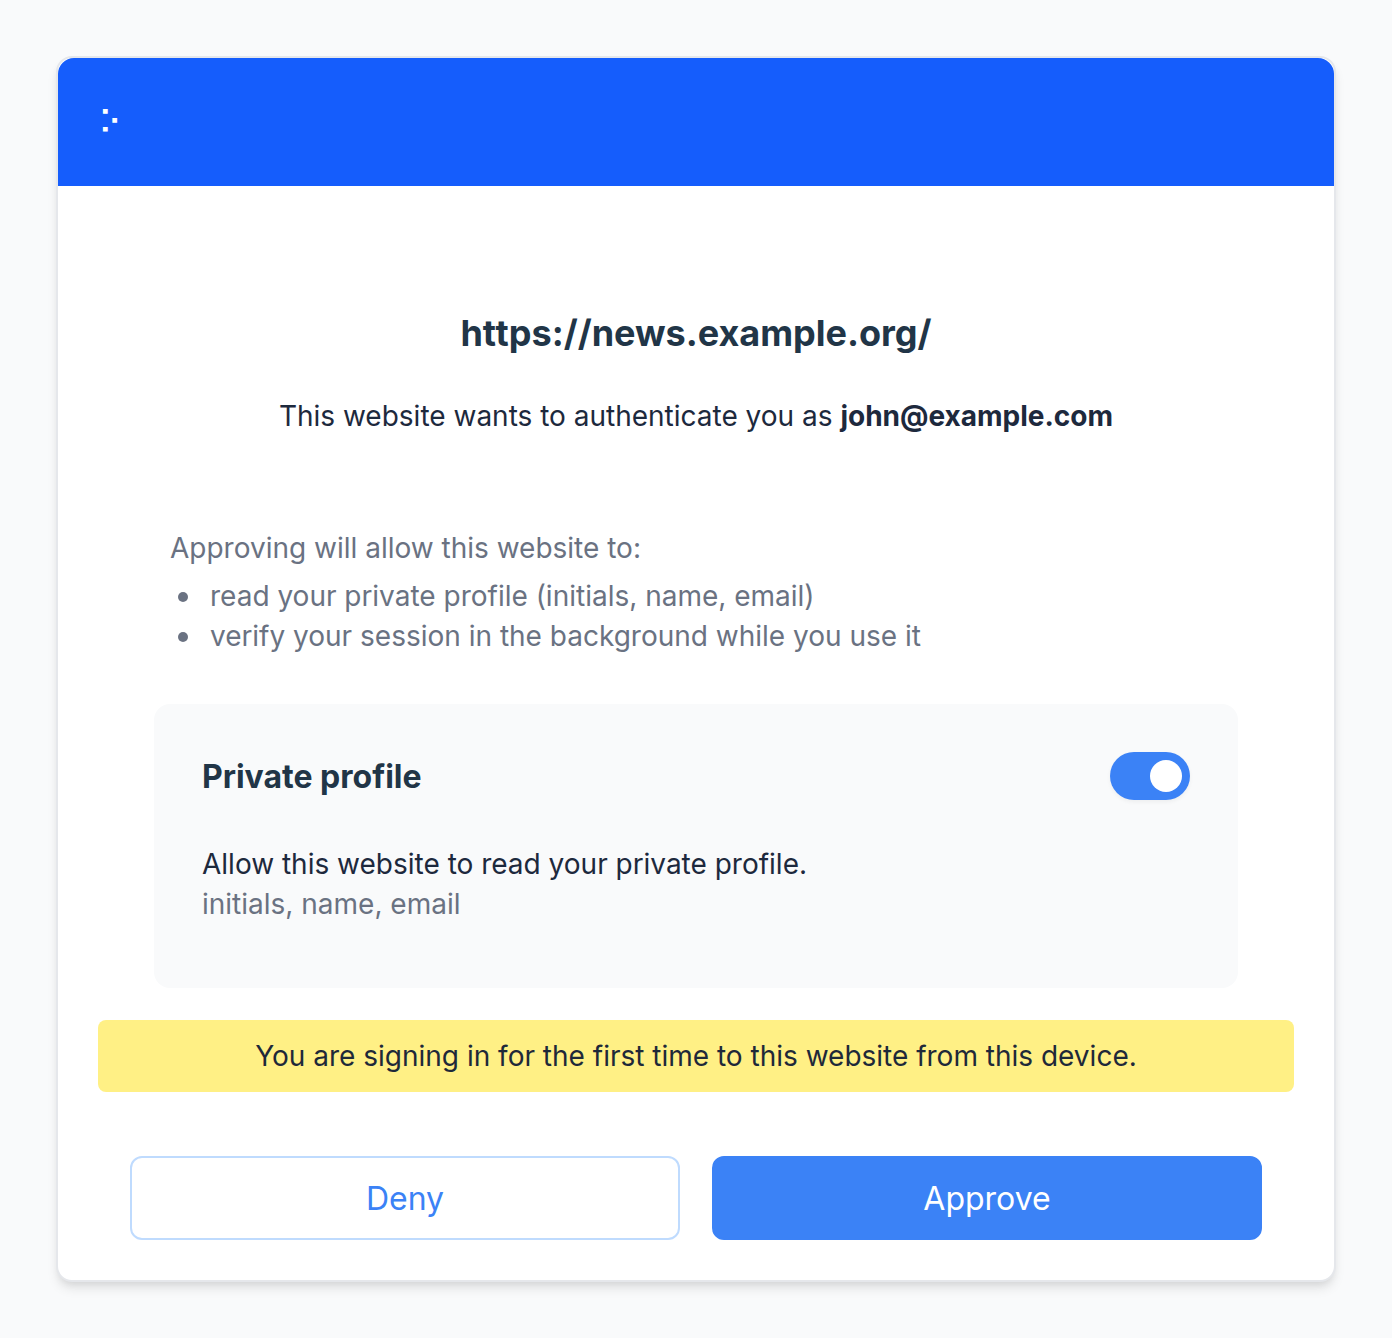
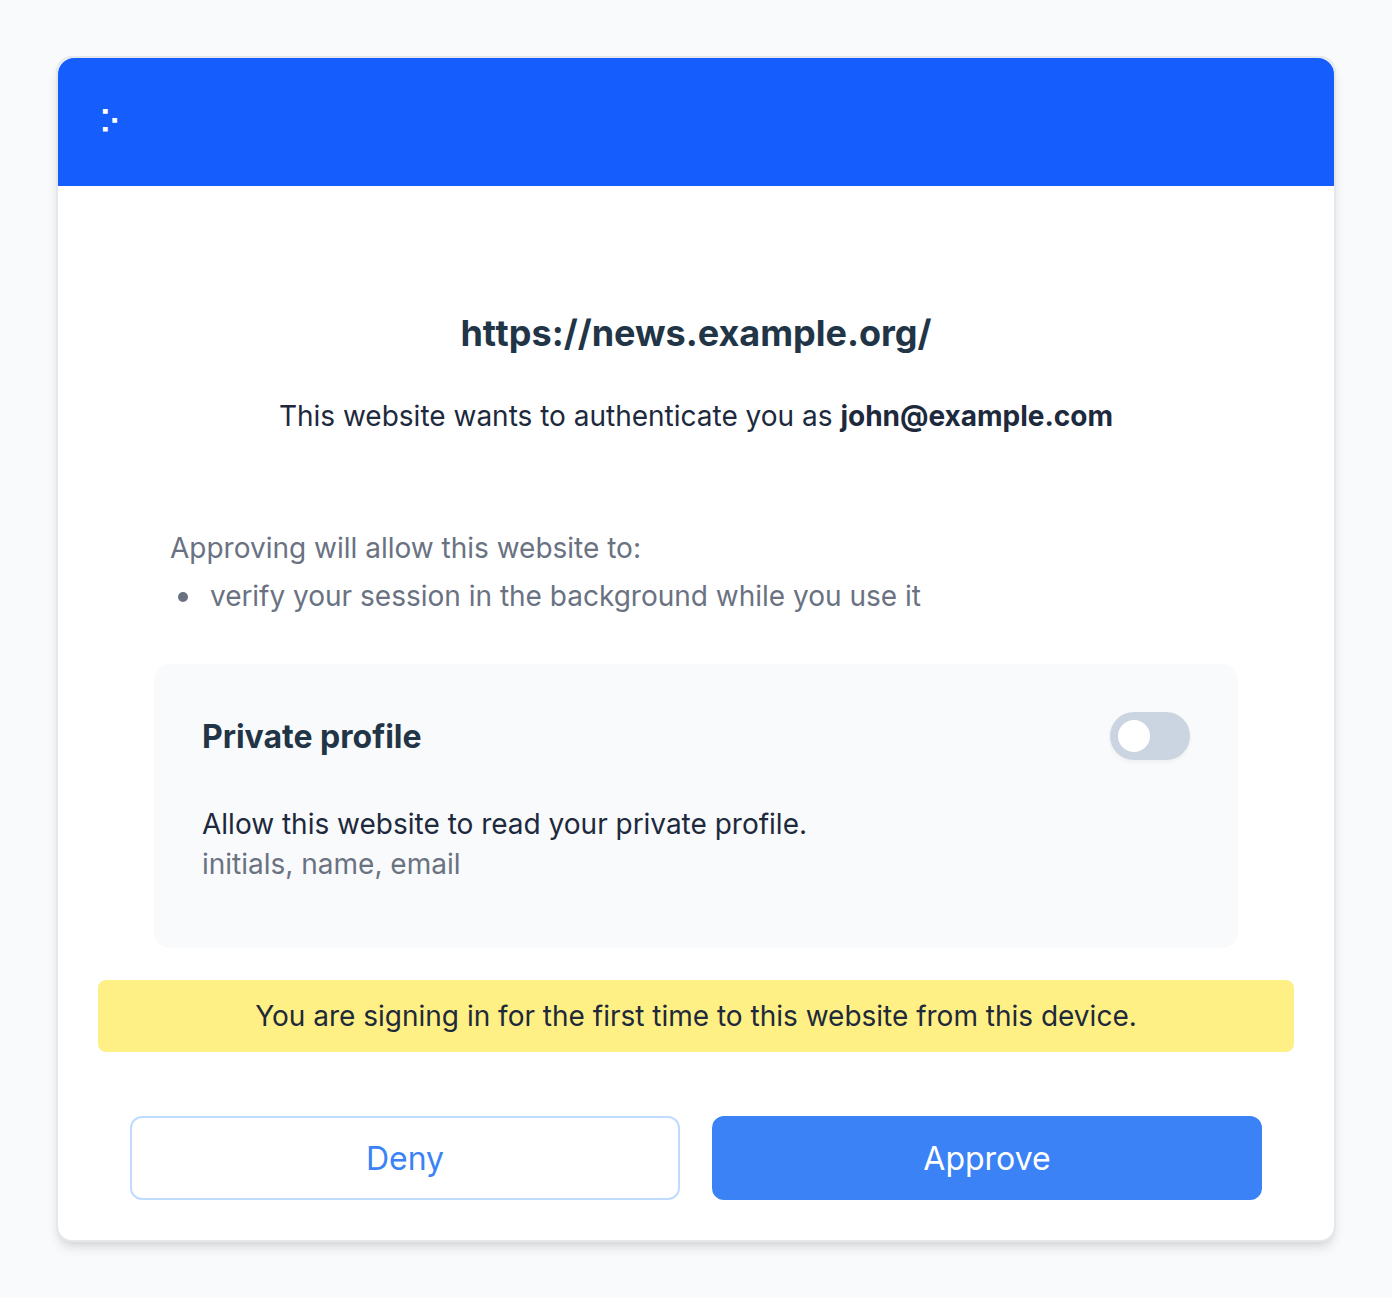
List only the silent grants on the auth consent screen

diff --git a/src/components/AuthPage.vue b/src/components/AuthPage.vue
@@ -29,13 +29,13 @@ const requestedExt = {};
 
 const permissionSwitchesRef = ref({});
 
-// Capabilities granted without a toggle when the site requests them (see confirm());
-// they are listed on the consent screen so the approval is informed.
-const BACKGROUND_GRANT_DESCRIPTIONS = {
+// Every token a website may request; each requested one is minted on approval (see confirm())
+const TOKEN_TYPES = ['pingToken', 'signToken', 'stampToken', 'attestToken'];
+
+// The tokens that later sign with no prompt are listed on the consent screen
+const SILENT_GRANT_DESCRIPTIONS = {
   pingToken: 'verify your session in the background while you use it',
-  signToken: 'ask you to approve and sign documents',
-  stampToken: 'prove to other websites that you are signed in',
-  attestToken: 'ask you to confirm details about yourself'
+  stampToken: 'prove to other websites that you are signed in'
 };
 
 // The private profile fields that a grant shares: the non-empty ones. The consent screen lists
@@ -45,22 +45,10 @@ const sharedPrivateProfile = () =>
 
 const privateProfileFieldsRef = computed(() => Object.keys(sharedPrivateProfile()).join(', '));
 
-// A computed array of human-readable permissions that are granted to the website, displayed as a list
-const grantsRef = computed(() => {
-  const grants = [];
-
-  if (requestedExt.privateProfile && permissionSwitchesRef.value.privateProfile) {
-    grants.push({key: 'privateProfile', text: 'read your private profile', detail: privateProfileFieldsRef.value});
-  }
-
-  for (const [k, text] of Object.entries(BACKGROUND_GRANT_DESCRIPTIONS)) {
-    if (requestedExt[k]) {
-      grants.push({key: k, text});
-    }
-  }
-
-  return grants;
-});
+// The silent grants the website requested, displayed as a list on the consent screen
+const grantsRef = computed(() =>
+  Object.entries(SILENT_GRANT_DESCRIPTIONS).filter(([k]) => requestedExt[k]).map(([key, text]) => ({key, text}))
+);
 
 const errorMessageRef = ref('');
 
@@ -111,7 +99,7 @@ async function setup() {
           permissionSwitchesRef.value[k] = Object.keys(website.permissions).includes(k) ? !!website.permissions[k] : false;
         }
 
-      } else if (['attestToken', 'pingToken', 'signToken', 'stampToken'].indexOf(k) >= 0) {
+      } else if (TOKEN_TYPES.indexOf(k) >= 0) {
         requestedExt[k] = !!v;
 
       } else if (k === 'manifest') {
@@ -206,7 +194,7 @@ async function confirm(){
       signedMetadata.ext.privateProfile = sharedPrivateProfile();
     }
 
-    for (const type of Object.keys(BACKGROUND_GRANT_DESCRIPTIONS)) {
+    for (const type of TOKEN_TYPES) {
       if (permissionSwitchesRef.value[type] || !!requestedExt[type]) {
         const value = ':' + Triauth.Helpers.randomString(24);
 
@@ -291,9 +279,7 @@ async function deny() {
       <div class="mx-7 p-2 text-left text-sm text-gray-500" v-if="grantsRef.length > 0">
         Approving will allow this website to:
         <ul class="list-disc ml-5 mt-1">
-          <li v-for="grant of grantsRef" :key="grant.key">
-            {{ grant.text }}<span v-if="grant.detail"> ({{ grant.detail }})</span>
-          </li>
+          <li v-for="grant of grantsRef" :key="grant.key">{{ grant.text }}</li>
         </ul>
       </div>
 
